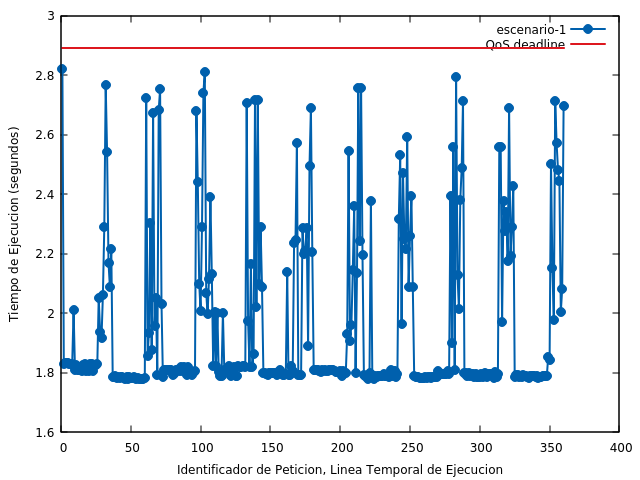
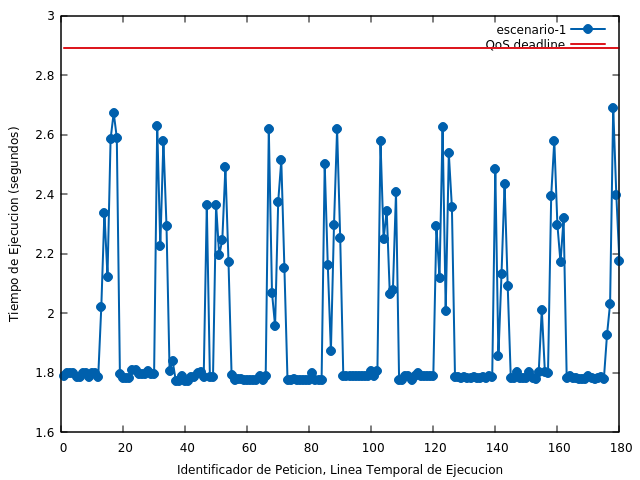
practica1 terminada

diff --git a/practica1/client.go b/practica1/client.go
@@ -87,7 +87,7 @@ func receiveReply(decoder *gob.Decoder, delChan chan com.TimeReply, conn net.Con
 func main() {
 	endpoint := "155.210.154.205:30014"
 	numIt := 10
-	requestTmp := 36
+	requestTmp := 19
 	interval := com.TPInterval{1000, 70000}
 	tts := 3000 // time to sleep between consecutive requests
 

diff --git a/trabajo-1/server.go b/trabajo-1/server.go
@@ -80,7 +80,7 @@ func main() {
 
 	CONN_TYPE := "tcp"
 	CONN_HOST := "155.210.154.205"
-	CONN_PORT := "30010"
+	CONN_PORT := "30015"
 
 	fmt.Println("Esperando clientes...")
 
@@ -108,5 +108,6 @@ func main() {
 	}
 
 	conn.Close()
+	listener.Close()
 
 }

diff --git a/trabajo-1/client.go b/trabajo-1/client.go
@@ -64,7 +64,7 @@ func desconvertirCli(v []byte) []int {
 }
 
 func main() {
-	endpoint := "155.210.154.205:30010"
+	endpoint := "155.210.154.205:30015"
 
 	fmt.Println("Introduce un intervalo de enteros: ")
 
